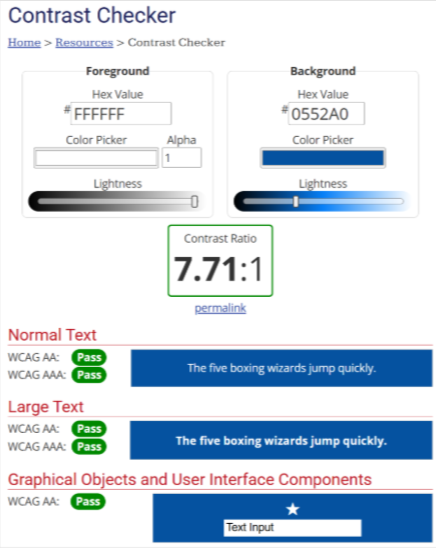
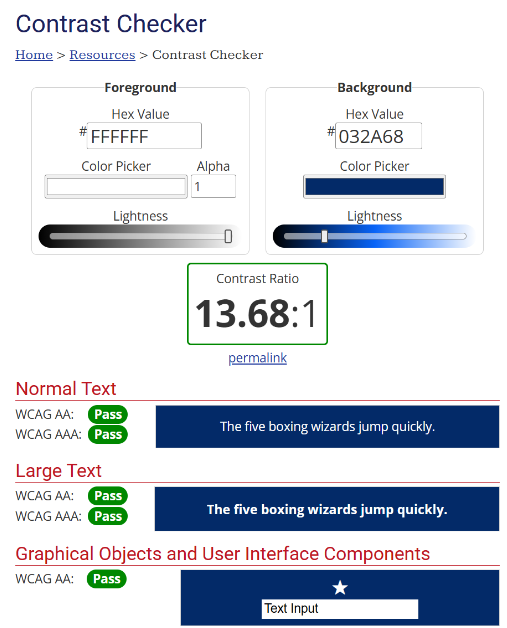
Finalise additional testing gifs on read me, add in design information, and additional programs used.

diff --git a/index.html b/index.html
@@ -17,7 +17,6 @@
     <title>Aber Beach Cleanup Charity</title>
     <!-- Favicon --> 
     <link rel="icon" href="assets/favicon/favicon.ico" type="image/x-icon">
-    <link rel="preload" as="image" href="/assets/images/beachshotfinal.webp" type="image/webp">
 </head>
 
 <body>

diff --git a/README.md b/README.md
@@ -12,6 +12,8 @@
 
 * [Manual Testing](#manual-testing)
 
+* [Automated Testing](#automated-testing)
+
 * [Design](#design)
 
 * [Wireframes](#wireframes)
@@ -63,13 +65,16 @@ My thought process progressed to: "Is the reasoning behind this purely just a ti
 | User Story 4 | Donation form demonstration showing needed fields. The user is expected to fill in both fields and a warning will show if one is missed, as evidenced in the gif here.  | ![gif of form submission](/assets/images/recordings/user%204.gif)
 | User Story 5 | Navigation testing on mobile with nav bar usage. The user is expected to have this nav bar dropdown when clicking the + icon on any smaller screen device as evidenced here. The links for the site will all show underlined and will open in the same tab. | ![gif showing nav bar mobile usage](/assets/images/recordings/user%205.gif)
 | User Story 6 | Social media buttons opening on click with Facebook example. The user is expected to be brought to the applicable social media page in a new tab when clicking on any of the icons shown as evidenced here with Facebook as the example. All icons are operating.  | ![gif showing social media links opening](/assets/images/recordings/user%206.gif)
-
+| Additional Testing (1) | The user should be able to click the Aber Beach Cleanup Text in the top left to come to the landing page at any time. This is also Passing tests on the live site. | ![gif showing home button navigation](/assets/images/recordings/additonal-test1.gif)
+| Additional Testing (2) | The user should find a completed form when filling in the form to sign up for email updates | ![gif showing pass test on form 1](/assets/images/recordings/additonal-test2.gif)
+| Additional Testing (3) | The user should also find a completed form when donating on the same page. The previous test only showed the missing fields prompt. | ![gif showing past test on form 2](/assets/images/recordings/additonal-test3.gif)
 
 
 ### Further manual testing completed 
 
 * Testing conducted on multiple browsers, devices and OS'.
 * iPhones, Macbooks, Windows laptops, Android tablets, and Android phones all running site responsively for the most part (see Bugs section). Tested on Safari, Edge and Chrome browsers. 
+* All buttons, input boxes, navigation links tests shown in user stories above. 
 
 # Automated Testing 
 
@@ -108,7 +113,7 @@ I used Lighthouse in Chrome developer tools to test Performance, Accessibility, 
 
 * On the same day I took my photos, someone had left a beer bottle in the sand. The registration page features this image now, symbolising a "message in a bottle." This metaphor reflects the outreach and community building aspects of the beach clean initiative, where each registration or donation is like sending a message of hope and commitment to the cause. 
 
-* I had used color picker and based the colors off of what was given to me in the grid, however in the end I just chose what I thought was best and visually appealing. You can see below in the contrast checkers that they pass on both styles I have throughout the website assisting with best practice.
+* I had used color picker and based the colors off of what was given to me in the grid, however in the end I just chose what I thought was best and visually appealing. You can see below in the contrast checkers that they pass on both styles I have throughout the website assisting with best practice. These also align with the colour scheme within the Aberystwyth University website - something I only realised in hindsight - so maybe some inspiration was taken from there, too. 
 
 ## Contrast Checker 
 
@@ -135,10 +140,14 @@ I used Lighthouse in Chrome developer tools to test Performance, Accessibility, 
 * [GitHub](https://github.com)
 * [Image Color Picker](https://imagecolorpicker.com/)
 * [Balsamiq](https://balsamiq.com)
+* [WebAim Contrast Checker](https://webaim.org/resources/contrastchecker/)
+* [MP4 to Gif converter](https://www.freeconvert.com/convert/mp4-to-gif)
 
 ## Known Bugs
 
 * There is currently, as far as I'm aware, only one true bug on the site. Nearing the end of my coding whilst I was creating media queries for responsiveness, there was a bug on specific mobiles (with smaller-in-height screens) that pushed the footer icons up in to the area where the donate button is and it overlapped. There is a gap above the sign up form on other media queries, which allows you to see the background more before entering data in the form. To overcome this on mobile I reduced that gap to push everything up and keep the footer in place. All devices that had the issue (iPhone 12 and Samsung S21) have now no longer got this issue. **However** through my testing by sending the website to family and friends, one device - a Samsung S10 - still does this. The media query should include that devices specs so I have not been able to overcome this. 
+
+* When opening the site directly from a Facebook Messenger link and not fully opening it in a full browser window ( i.e letting it load within the 'browser' within Messenger), the Footer pushes up when the user clicks to put an amount in to Donation. However most users will use full browsers and there's not way of testing this through DevTools. 
 
 ## Other Bugs noted that were fixed 
 
